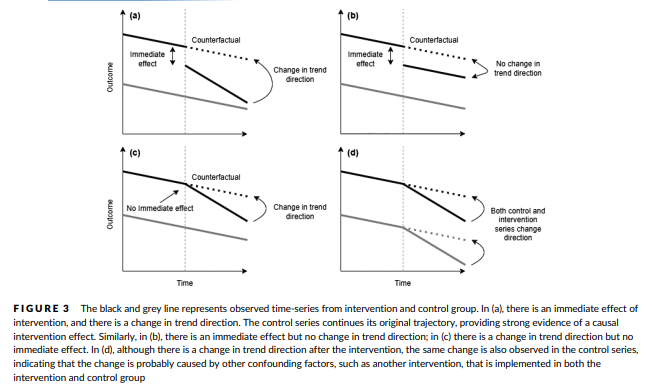
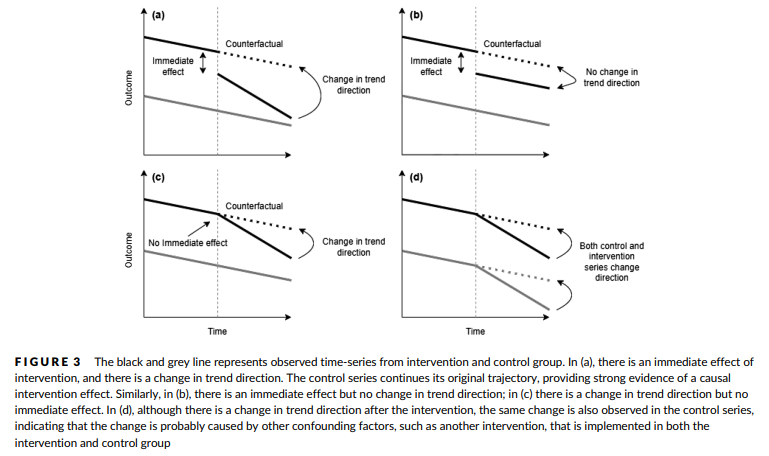
fix: screenshot and title size updated

diff --git a/README.md b/README.md
@@ -39,7 +39,7 @@ Bei dieser Methode wird eine Intrumentalvariable gesucht, welche (i) einen direk
 Die Methode zur Bestimmmung eines kausalen Effektes funktioniert nach dem folgenden Prinzip: 
 Ist eine Instrumentalvariable identifiziert worden, kann über eine Regression (kleinste Quadrate Methode) für jeden Induviduum die counfounding freie Ausprägung des Treatments geschätzt werden, auf Basis derer durch eine weitere Regression der kausale Effekt auf das Ergebnis geschätzt werden kann. Das Ausfindigmachen einer Instrumentalvariable stellt die größte Schwierigkeit dieser Methode dar. 
 
-### Interrupted Time-Series Analysis
+#### Interrupted Time-Series Analysis
 
 Unter Verwendung von Daten aus wiederholten Beobachtungen eines Ergebnisses wird in einer unterbrochenen Zeitreihenanalyse (ITSA) die Entwicklung des Ergebnisses vor und nach der Intervention.
 Dies kann konzeptualisiert werden auf der Grundlage des kontrafaktischen Rahmens als Vergleich dessen was ohne die Intervention geschehen wäre (ein kontrafaktisches Szenario) mit dem, was nach einer Intervention beobachtet wurde. 
